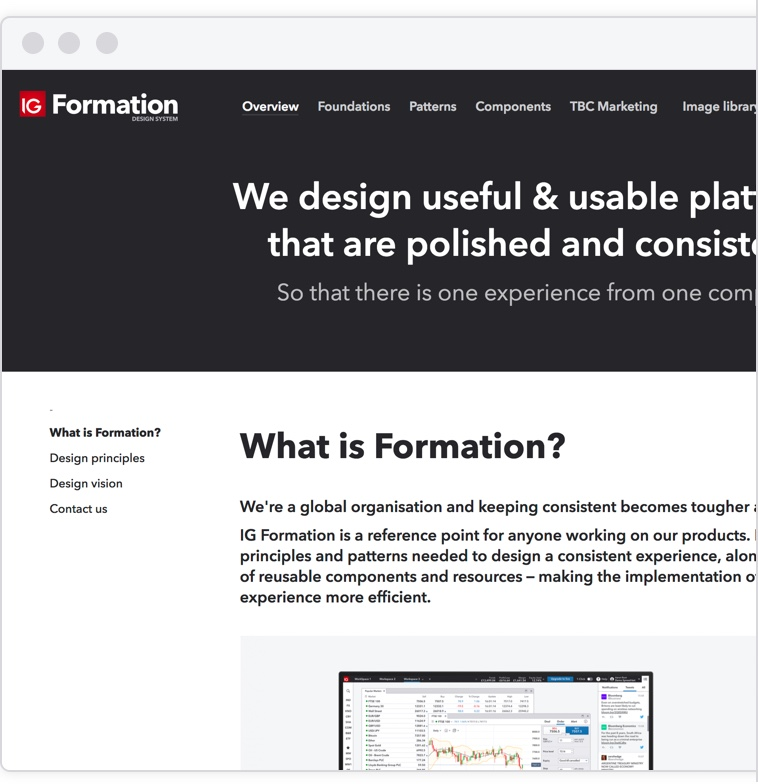
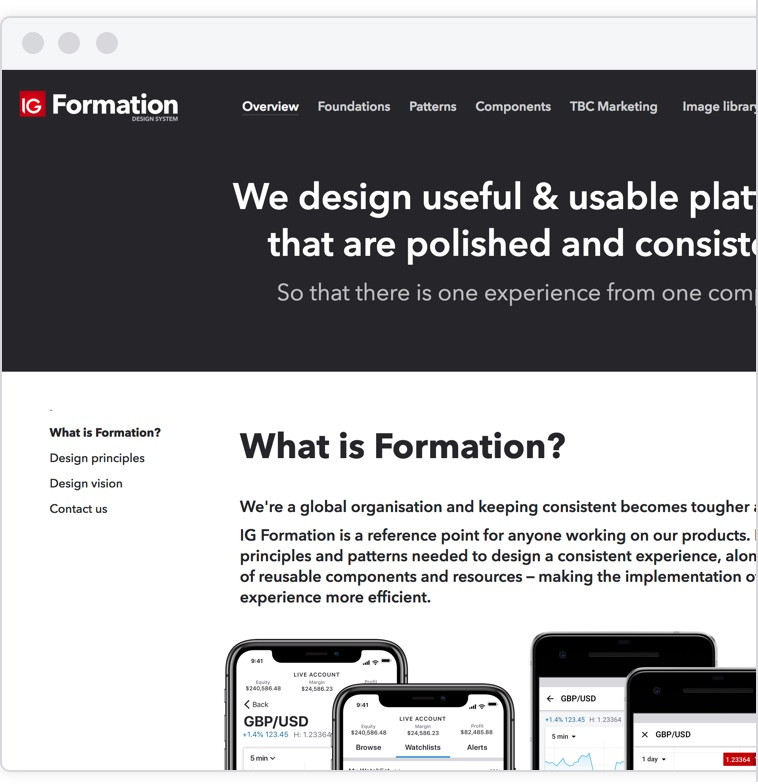
updated case studies

Changed region(s): [[0.2731, 0.7959, 1.0, 0.9796]]

diff --git a/src/pages/case_study_forex_trading.js b/src/pages/case_study_forex_trading.js
@@ -52,13 +52,6 @@ export default () => (
             realistic example for clients to test. This was a huge undertaking
             and a technical first for IG.
           </p>
-        </section>
-        <img
-          src={require("../images/caseStudies/caseStudy_forexTrading_prototype.jpg")}
-          alt="Placeholder"
-          className={styles.caseStudy_MediumImage}
-        />
-        <section>
           <p>
             Once we had a set of prototypes to test, I worked with the UX
             research team to facilitate a series of user testing sessions in

diff --git a/src/pages/case_study_mobile_vision.js b/src/pages/case_study_mobile_vision.js
@@ -79,13 +79,7 @@ export default () => (
             showing a limited number of data points on as many markets as
             possible.
           </p>
-          <h3>Existing iOS Designs</h3>
         </section>
-        <img
-          src={require("../images/caseStudies/caseStudy_mobileVision_before.jpg")}
-          alt="Placeholder"
-          className={styles.caseStudy_LargeImage}
-        />
         <section className={styles.mobileDesign}>
           <div className={styles.workText}>
             <h3>Platform alignment</h3>

diff --git a/src/pages/case_study_design_system.js b/src/pages/case_study_design_system.js
@@ -302,11 +302,6 @@ export default () => (
             'need to know' bases.
           </p>
         </section>
-        <img
-          src={require("../images/caseStudies/caseStudy_DesignSystem_deviceMockups.jpg")}
-          alt="Placeholder"
-          className={styles.caseStudy_MediumImage}
-        />
 
         <Author />
       </article>
